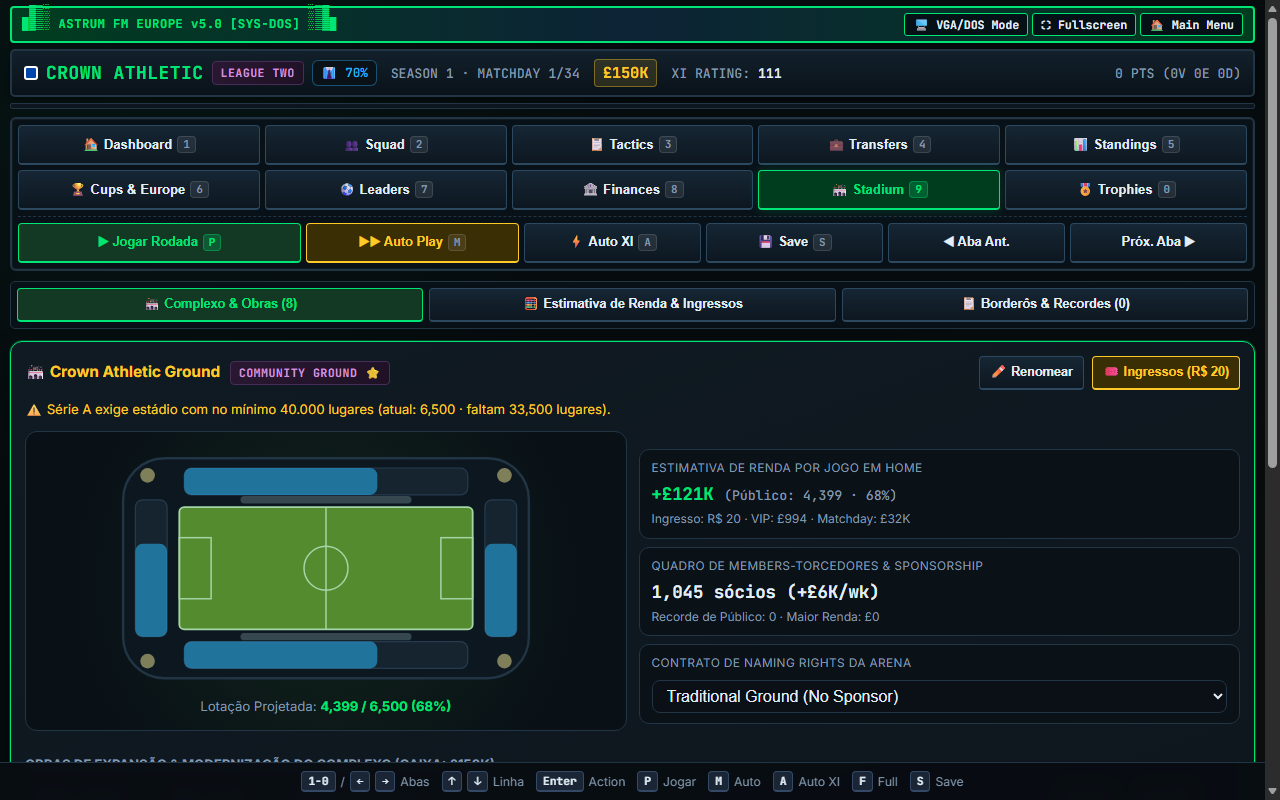
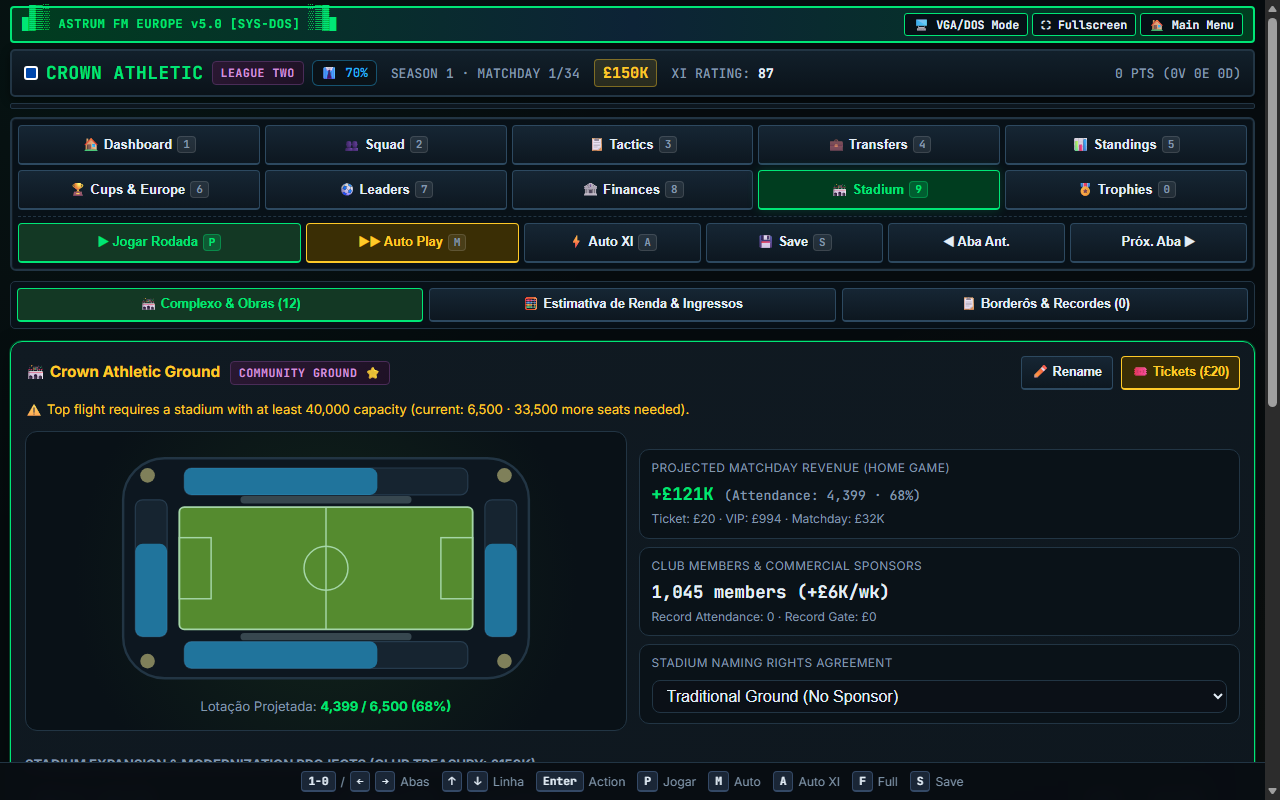
fix: resolve stadium capacity expansion upgrades and key mappings

diff --git a/index.html b/index.html
@@ -3265,14 +3265,18 @@ const SCOUT_TIERS = {
 };
 
 const STADIUM_UPGRADES = [
-  { key:"stands",     name:"Stands Expansion",                     unit:"+2,500 seats",  cost:25000,  upkeep:250,  desc:"Expand stadium capacity by 2,500 seats to grow matchday gate receipts." },
-  { key:"grass",      name:"Hybrid Turf Pitch",                     unit:"+10 quality",   cost:15000,  upkeep:180,  desc:"Professional hybrid playing surface that boosts home tactical performance." },
-  { key:"lighting",   name:"4K LED Floodlights",                    unit:"+10 lighting",  cost:10000,  upkeep:100,  desc:"Broadcast-standard LED lighting for evening fixtures and European nights." },
-  { key:"vipBoxes",   name:"Executive VIP Suites",                  unit:"+5 suites",     cost:20000,  upkeep:200,  desc:"High-margin luxury hospitality boxes for corporate sponsors." },
-  { key:"medical",    name:"High-Performance Medical & Rehab",      unit:"+10 medical",   cost:18000,  upkeep:150,  desc:"Elite physiotherapy center to accelerate weekly squad stamina recovery." },
-  { key:"academy",    name:"Youth Academy Center",                  unit:"+10 academy",   cost:22000,  upkeep:200,  desc:"State-of-the-art youth facilities to unearth high-potential wonderkids." },
-  { key:"multiArena", name:"Multi-Purpose Arena & Expo Center",     unit:"€18k/wk income",cost:380000, upkeep:1800, desc:"Host expos, concerts and conventions, generating €18,000 passive income every single week." },
-  { key:"fanShow",    name:"Pre-Match Light Show & Fan Pyrotechnics",unit:"+12% gate, +3% morale", cost:160000, upkeep:900, desc:"Laser light shows, DJs and pyrotechnics creating a cauldron atmosphere before kickoff." }
+  { key: "seats",      label: "Stands Expansion (+1,000 seats)",     cost: 25000,  desc: "Expand terrace and seating capacity by +1,000 seats." },
+  { key: "seatsFast",  label: "Upper Tier Expansion (+2,500 seats)", cost: 65000,  desc: "Accelerated construction of an upper tier (+2,500 seats)." },
+  { key: "seatsMega",  label: "New Grandstand Tier (+5,000 seats)",  cost: 130000, desc: "Major architectural development adding a massive new stand (+5,000 seats)." },
+  { key: "pitch",      label: "Hybrid Turf Pitch (+10%)",           cost: 15000,  desc: "Professional hybrid turf boosting home possession and match strength." },
+  { key: "facilities", label: "Club Facilities & Megastore (+10%)",  cost: 20000,  desc: "Modern club house, fan pubs, and retail megastore increasing matchday spending." },
+  { key: "vipBoxes",   label: "Corporate VIP Suites (+10%)",         cost: 28000,  desc: "Luxury hospitality suites increasing commercial matchday revenue." },
+  { key: "lighting",   label: "4K LED Floodlights & Screens (+10%)", cost: 18000,  desc: "Broadcast-standard floodlights and digital video scoreboards." },
+  { key: "medical",    label: "Medical & Rehab Center (+10%)",       cost: 12000,  desc: "High-performance physiotherapy center accelerating squad stamina recovery." },
+  { key: "press",      label: "Media & Marketing Suite (+10%)",     cost: 10000,  desc: "Expands media outreach, brand sponsorships, and season ticket base." },
+  { key: "academy",    label: "Youth Academy Center (+10%)",         cost: 22000,  desc: "State-of-the-art youth coaching facilities unearthing future stars." },
+  { key: "multiArena", label: "Multi-Purpose Arena (+10%)",          cost: 50000,  desc: "Multi-use indoor arena hosting concerts & expos for €/£18k weekly passive income." },
+  { key: "fanShow",    label: "Pre-Match Light Show & Pyro (+10%)",  cost: 35000,  desc: "Laser shows, stadium DJs, and pyrotechnics (+12% gate receipts, +3% morale)." }
 ];
 
 const NAMING_RIGHTS_DEALS = [
@@ -5030,24 +5034,29 @@ function adjustInput(inputId, delta){
 // --------------- STADIUM UPGRADES & MANAGEMENT (v4.0) ---------------
 function upgrade(what){
   const pt = G.teams[G.teamName];
+  // Support both alias forms
+  if(what === "stands") what = "seats";
+  if(what === "grass") what = "pitch";
+
   const costs = {
-    seats: {cost: 25000, max: () => pt.stadium >= 100000, effect:()=>{ pt.stadium = Math.min(100000, pt.stadium+500); }, msg:"🏟 +500 lugares construídos!"},
-    seatsFast: {cost: 75000, max: () => pt.stadium >= 100000, effect:()=>{ pt.stadium = Math.min(100000, pt.stadium+1000); }, msg:"🏟 +1.000 lugares (expansão rápida)!"},
-    seatsMega: {cost: 320000, max: () => pt.stadium >= 100000, effect:()=>{ pt.stadium = Math.min(100000, pt.stadium+5000); }, msg:"🏟 Novo anel inaugurado (+5.000 lugares)!"},
-    pitch: {cost: 15000, max: () => pt.pitch >= 100, effect:()=>{ pt.pitch = Math.min(100, pt.pitch+10); }, msg:"🌱 Pitch reformado (+10%)!"},
-    facilities: {cost: 20000, max: () => pt.facilities >= 100, effect:()=>{ pt.facilities = Math.min(100, pt.facilities+10); }, msg:"🛍 CT, Bares e Loja modernizados (+10%)!"},
-    vipBoxes: {cost: 28000, max: () => (pt.vipBoxes||0) >= 100, effect:()=>{ pt.vipBoxes = Math.min(100, (pt.vipBoxes||10)+10); }, msg:"🥂 VIP Suites & Lounge ampliados (+10%)!"},
-    lighting: {cost: 18000, max: () => (pt.lighting||0) >= 100, effect:()=>{ pt.lighting = Math.min(100, (pt.lighting||15)+10); }, msg:"💡 Floodlights LED e Telão atualizados (+10%)!"},
-    medical: {cost: 12000, max: () => pt.medical >= 100, effect:()=>{ pt.medical = Math.min(100, pt.medical+10); }, msg:"🏥 DM e Fisioterapia aprimorados (+10%)!"},
-    press: {cost: 10000, max: () => pt.press >= 100, effect:()=>{ pt.press = Math.min(100, pt.press+10); }, msg:"📣 Marketing & Members expandidos (+10%)!"},
-    academy: {cost: 22000, max: () => (pt.academy||0) >= 100, effect:()=>{ pt.academy = Math.min(100, (pt.academy||15)+10); }, msg:"🌱 Youth Academy & Olheiros evoluído (+10%)!"},
-    multiArena: {cost: 50000, max: () => (pt.multiArena||0) >= 100, effect:()=>{ pt.multiArena = Math.min(100, (pt.multiArena||0)+10); }, msg:"🎪 Multi-Purpose Arena expandida (+10% em receitas corporativas e shows)!"},
-    fanShow: {cost: 35000, max: () => (pt.fanShow||0) >= 100, effect:()=>{ pt.fanShow = Math.min(100, (pt.fanShow||0)+10); }, msg:"🎆 Espetáculo & Pirotecnia de Matchday aprimorado (+10%)!"}
+    seats:     { cost: 25000,  max: () => pt.stadium >= 120000, effect: () => { pt.stadium = Math.min(120000, (pt.stadium||6500) + 1000); }, msg: "🏟 +1,000 seats built! Capacity increased!" },
+    seatsFast: { cost: 65000,  max: () => pt.stadium >= 120000, effect: () => { pt.stadium = Math.min(120000, (pt.stadium||6500) + 2500); }, msg: "🏟 +2,500 seats completed in accelerated expansion!" },
+    seatsMega: { cost: 130000, max: () => pt.stadium >= 120000, effect: () => { pt.stadium = Math.min(120000, (pt.stadium||6500) + 5000); }, msg: "🏟 Magnificent new grandstand tier inaugurated (+5,000 seats)!" },
+    pitch:     { cost: 15000,  max: () => pt.pitch >= 100,      effect: () => { pt.pitch = Math.min(100, (pt.pitch||35) + 10); }, msg: "🌱 Hybrid pitch upgraded (+10%)!" },
+    facilities:{ cost: 20000,  max: () => pt.facilities >= 100, effect: () => { pt.facilities = Math.min(100, (pt.facilities||20) + 10); }, msg: "🛍 Stadium facilities and retail modernized (+10%)!" },
+    vipBoxes:  { cost: 28000,  max: () => (pt.vipBoxes||0) >= 100, effect: () => { pt.vipBoxes = Math.min(100, (pt.vipBoxes||10) + 10); }, msg: "🥂 Executive VIP suites and lounges expanded (+10%)!" },
+    lighting:  { cost: 18000,  max: () => (pt.lighting||0) >= 100, effect: () => { pt.lighting = Math.min(100, (pt.lighting||15) + 10); }, msg: "💡 4K LED floodlights and screens upgraded (+10%)!" },
+    medical:   { cost: 12000,  max: () => pt.medical >= 100,    effect: () => { pt.medical = Math.min(100, (pt.medical||20) + 10); }, msg: "🏥 High-performance medical center improved (+10%)!" },
+    press:     { cost: 10000,  max: () => pt.press >= 100,      effect: () => { pt.press = Math.min(100, (pt.press||15) + 10); }, msg: "📢 Media, marketing and commercial operations expanded (+10%)!" },
+    academy:   { cost: 22000,  max: () => (pt.academy||0) >= 100, effect: () => { pt.academy = Math.min(100, (pt.academy||15) + 10); }, msg: "⭐ Youth academy and talent development enhanced (+10%)!" },
+    multiArena:{ cost: 50000,  max: () => (pt.multiArena||0) >= 100, effect: () => { pt.multiArena = Math.min(100, (pt.multiArena||0) + 10); }, msg: "🎪 Multi-Purpose Arena upgraded (+10% corporate & expo revenue)!" },
+    fanShow:   { cost: 35000,  max: () => (pt.fanShow||0) >= 100, effect: () => { pt.fanShow = Math.min(100, (pt.fanShow||0) + 10); }, msg: "🎆 Pre-Match Light Show & Fan Pyrotechnics upgraded (+10%)!" }
   };
+
   const u = costs[what];
   if(!u) return;
-  if(u.max && u.max()){ showMsg("Este setor já atingiu o nível máximo (100%)!", "info"); render(); return; }
-  if(pt.money < u.cost){ showMsg("Insufficient funds!", "error"); render(); return; }
+  if(u.max && u.max()){ showMsg("This sector has already reached the maximum level!", "info"); render(); return; }
+  if(pt.money < u.cost){ showMsg("Insufficient funds in club treasury!", "error"); render(); return; }
   pt.money -= u.cost;
   u.effect();
   checkSpecialBadges();
@@ -6542,10 +6551,12 @@ function renderStadium(){
 
   // stadiumTab === 'overview'
   const statValues = {
-    seats: `${pt.stadium.toLocaleString()} lug.`,
-    seatsFast: `${pt.stadium.toLocaleString()} lug.`,
-    seatsMega: `${pt.stadium.toLocaleString()} lug.`,
+    seats: `${pt.stadium.toLocaleString()} seats`,
+    seatsFast: `${pt.stadium.toLocaleString()} seats`,
+    seatsMega: `${pt.stadium.toLocaleString()} seats`,
+    stands: `${pt.stadium.toLocaleString()} seats`,
     pitch: `${pt.pitch}%`,
+    grass: `${pt.pitch}%`,
     facilities: `${pt.facilities}%`,
     vipBoxes: `${pt.vipBoxes || 10}%`,
     lighting: `${pt.lighting || 15}%`,
@@ -6561,11 +6572,11 @@ function renderStadium(){
     <h3>
       <span>🏟 ${stName} <span class="badge ${tier.badge}" style="margin-left:6px">${tier.name}</span></span>
       <div class="flex-row">
-        <button class="btn sm" onclick="openRenameStadiumModal()">✏ Renomear</button>
-        <button class="btn sm gold" onclick="stadiumTab='estimator';render()">🎟 Ingressos (R$ ${pt.ticketPrice||20})</button>
+        <button class="btn sm" onclick="openRenameStadiumModal()">✏ Rename</button>
+        <button class="btn sm gold" onclick="stadiumTab='estimator';render()">🎟 Tickets (${fmtMoney(pt.ticketPrice||20)})</button>
       </div>
     </h3>
-    ${pt.stadium < 40000 ? `<p class="small warn mb">⚠ Série A exige estádio com no mínimo 40.000 lugares (atual: ${pt.stadium.toLocaleString()} · faltam ${(40000 - pt.stadium).toLocaleString()} lugares).</p>` : `<p class="small success mb">✅ Arena Padrão FIFA homologada pela CBF (${pt.stadium.toLocaleString()} lugares).</p>`}
+    ${pt.stadium < 40000 ? `<p class="small warn mb">⚠ Top flight requires a stadium with at least 40,000 capacity (current: ${pt.stadium.toLocaleString()} · ${Math.max(0, 40000 - pt.stadium).toLocaleString()} more seats needed).</p>` : `<p class="small success mb">✅ World-Class Stadium certified for European and Top-Flight fixtures (${pt.stadium.toLocaleString()} capacity).</p>`}
 
     <div class="grid-2 mb">
       <div>
@@ -6573,35 +6584,35 @@ function renderStadium(){
       </div>
       <div style="display:flex;flex-direction:column;gap:8px;justify-content:center">
         <div class="kpi-box">
-          <span class="kpi-label">Estimativa de Renda por Jogo em Home</span>
-          <span class="kpi-val success">+${fmtMoney(est.homeMatchTotal)} <span class="small font-normal muted">(Público: ${est.attendance.toLocaleString()} · ${est.occPct}%)</span></span>
-          <span class="kpi-sub">Ingresso: R$ ${est.ticketPrice} · VIP: ${fmtMoney(est.vipIncome)} · Matchday: ${fmtMoney(est.matchdayIncome)}</span>
+          <span class="kpi-label">Projected Matchday Revenue (Home Game)</span>
+          <span class="kpi-val success">+${fmtMoney(est.homeMatchTotal)} <span class="small font-normal muted">(Attendance: ${est.attendance.toLocaleString()} · ${est.occPct}%)</span></span>
+          <span class="kpi-sub">Ticket: ${fmtMoney(est.ticketPrice)} · VIP: ${fmtMoney(est.vipIncome)} · Matchday: ${fmtMoney(est.matchdayIncome)}</span>
         </div>
         <div class="kpi-box">
-          <span class="kpi-label">Quadro de Members-Torcedores & Sponsorship</span>
-          <span class="kpi-val info">${est.socios.toLocaleString()} sócios (+${fmtMoney(est.socioIncome)}/wk)</span>
-          <span class="kpi-sub">Recorde de Público: ${(pt.recordAttendance||0).toLocaleString()} · Maior Renda: ${fmtMoney(pt.recordGate||0)}</span>
+          <span class="kpi-label">Club Members & Commercial Sponsors</span>
+          <span class="kpi-val info">${est.socios.toLocaleString()} members (+${fmtMoney(est.socioIncome)}/wk)</span>
+          <span class="kpi-sub">Record Attendance: ${(pt.recordAttendance||0).toLocaleString()} · Record Gate: ${fmtMoney(pt.recordGate||0)}</span>
         </div>
         <div class="kpi-box">
-          <span class="kpi-label">Contrato de Naming Rights da Arena</span>
+          <span class="kpi-label">Stadium Naming Rights Agreement</span>
           <select style="max-width:100%;padding:6px 10px;font-size:0.84rem;margin-top:4px" onchange="selectNamingRights(this.value)">
-            ${NAMING_RIGHTS_DEALS.map(d => `<option value="${d.id}" ${(pt.namingRights||'none')===d.id?'selected':''}>${d.label} ${d.bonusPerWeek ? '(+'+fmtMoney(d.bonusPerWeek)+'/rod)' : ''}</option>`).join("")}
+            ${NAMING_RIGHTS_DEALS.map(d => `<option value="${d.id}" ${(pt.namingRights||'none')===d.id?'selected':''}>${d.label} ${d.bonusPerWeek ? '(+'+fmtMoney(d.bonusPerWeek)+'/wk)' : ''}</option>`).join("")}
           </select>
         </div>
       </div>
     </div>
 
-    <h4 class="small muted mb-1" style="text-transform:uppercase">Obras de Expansão & Modernização do Complexo (Caixa: ${fmtMoney(pt.money)})</h4>
+    <h4 class="small muted mb-1" style="text-transform:uppercase">Stadium Expansion & Modernization Projects (Club Treasury: ${fmtMoney(pt.money)})</h4>
     <div class="table-wrap">
       <table>
-        <tr><th>Obra / Setor</th><th>Nível Atual</th><th>Impacto no Clube</th><th>Custo</th><th>Action</th></tr>
+        <tr><th>Facility / Sector</th><th>Current Level</th><th>Club Impact</th><th>Cost</th><th>Action</th></tr>
         ${STADIUM_UPGRADES.map((u, idx)=>`
           <tr class="${idx===rowIndex?'kb-focus':''}" onclick="rowIndex=${idx};render()">
-            <td><strong>${u.label}</strong></td>
-            <td class="mono">${statValues[u.key]}</td>
+            <td><strong>${u.label || u.name}</strong></td>
+            <td class="mono">${statValues[u.key] || '0%'}</td>
             <td class="small muted">${u.desc}</td>
             <td class="mono warn font-bold">${fmtMoney(u.cost)}</td>
-            <td><button class="btn sm primary" onclick="event.stopPropagation();rowIndex=${idx};upgrade('${u.key}')">Investir</button></td>
+            <td><button class="btn sm primary" onclick="event.stopPropagation();rowIndex=${idx};upgrade('${u.key}')">Expand</button></td>
           </tr>
         `).join("")}
       </table>
